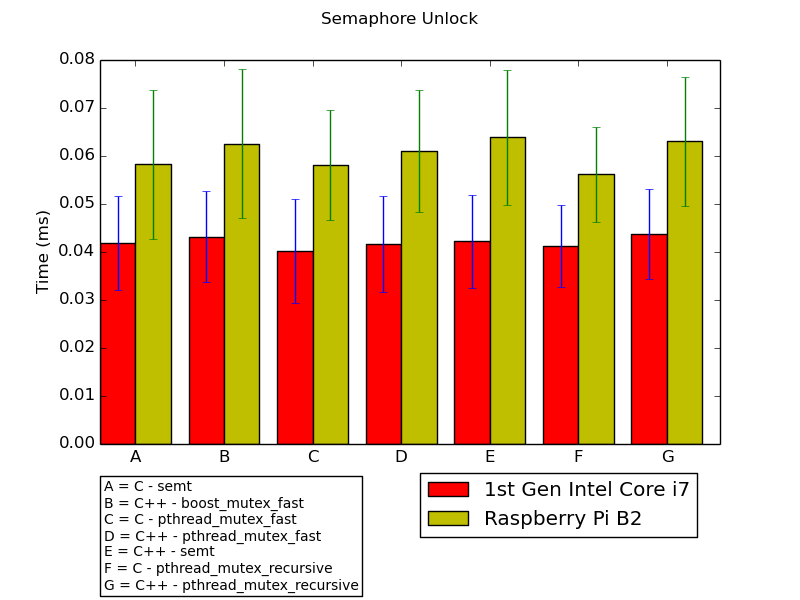
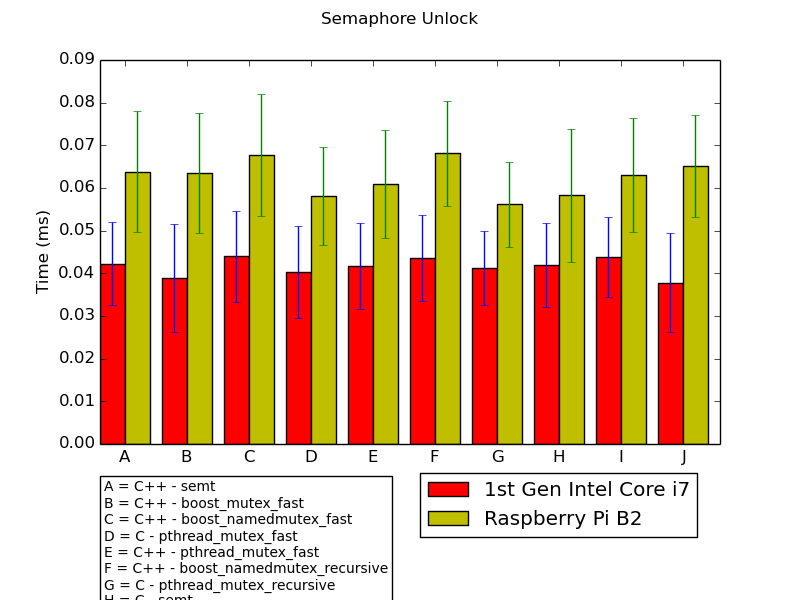
Updated final results

diff --git a/docs/index.html b/docs/index.html
@@ -190,23 +190,33 @@
 					</tr>
 					
 					<tr>
-						<td>C</td>
+						<td>C++</td>
 						<td>semt</td>
 						<td align="center">0.042</td>
 						<td align="center">0.010</td>
-						<td align="center">0.136</td>
-						<td align="center">0.016</td>
-						<td><a href="docs/img/sem_unlock__Intel_Core_i7_CPU_920_2.67GHz__C__semt.png">Result Graph</a></td>
+						<td align="center">0.111</td>
+						<td align="center">0.017</td>
+						<td><a href="docs/img/sem_unlock__Intel_Core_i7_CPU_920_2.67GHz__CPP__semt.png">Result Graph</a></td>
 					</tr>
 					
 					<tr>
 						<td>C++</td>
 						<td>boost_mutex_fast</td>
-						<td align="center">0.043</td>
-						<td align="center">0.010</td>
-						<td align="center">0.098</td>
+						<td align="center">0.039</td>
+						<td align="center">0.013</td>
+						<td align="center">0.315</td>
 						<td align="center">0.017</td>
 						<td><a href="docs/img/sem_unlock__Intel_Core_i7_CPU_920_2.67GHz__CPP__boost_mutex_fast.png">Result Graph</a></td>
+					</tr>
+					
+					<tr>
+						<td>C++</td>
+						<td>boost_namedmutex_fast</td>
+						<td align="center">0.044</td>
+						<td align="center">0.011</td>
+						<td align="center">0.293</td>
+						<td align="center">0.017</td>
+						<td><a href="docs/img/sem_unlock__Intel_Core_i7_CPU_920_2.67GHz__CPP__boost_namedmutex_fast.png">Result Graph</a></td>
 					</tr>
 					
 					<tr>
@@ -231,12 +241,12 @@
 					
 					<tr>
 						<td>C++</td>
-						<td>semt</td>
-						<td align="center">0.042</td>
+						<td>boost_namedmutex_recursive</td>
+						<td align="center">0.044</td>
 						<td align="center">0.010</td>
-						<td align="center">0.111</td>
-						<td align="center">0.017</td>
-						<td><a href="docs/img/sem_unlock__Intel_Core_i7_CPU_920_2.67GHz__CPP__semt.png">Result Graph</a></td>
+						<td align="center">0.113</td>
+						<td align="center">0.018</td>
+						<td><a href="docs/img/sem_unlock__Intel_Core_i7_CPU_920_2.67GHz__CPP__boost_namedmutex_recursive.png">Result Graph</a></td>
 					</tr>
 					
 					<tr>
@@ -250,6 +260,16 @@
 					</tr>
 					
 					<tr>
+						<td>C</td>
+						<td>semt</td>
+						<td align="center">0.042</td>
+						<td align="center">0.010</td>
+						<td align="center">0.136</td>
+						<td align="center">0.016</td>
+						<td><a href="docs/img/sem_unlock__Intel_Core_i7_CPU_920_2.67GHz__C__semt.png">Result Graph</a></td>
+					</tr>
+					
+					<tr>
 						<td>C++</td>
 						<td>pthread_mutex_recursive</td>
 						<td align="center">0.044</td>
@@ -257,6 +277,16 @@
 						<td align="center">0.182</td>
 						<td align="center">0.018</td>
 						<td><a href="docs/img/sem_unlock__Intel_Core_i7_CPU_920_2.67GHz__CPP__pthread_mutex_recursive.png">Result Graph</a></td>
+					</tr>
+					
+					<tr>
+						<td>C++</td>
+						<td>boost_mutex_recursive</td>
+						<td align="center">0.038</td>
+						<td align="center">0.012</td>
+						<td align="center">0.157</td>
+						<td align="center">0.017</td>
+						<td><a href="docs/img/sem_unlock__Intel_Core_i7_CPU_920_2.67GHz__CPP__boost_mutex_recursive.png">Result Graph</a></td>
 					</tr>
 					
 				</table>
@@ -274,23 +304,33 @@
 					</tr>
 					
 					<tr>
-						<td>C</td>
+						<td>C++</td>
 						<td>semt</td>
-						<td align="center">0.058</td>
-						<td align="center">0.016</td>
-						<td align="center">0.709</td>
-						<td align="center">0.049</td>
-						<td><a href="docs/img/sem_unlock__ARMv6-compatible_processor_rev_7_v6l__C__semt.png">Result Graph</a></td>
+						<td align="center">0.064</td>
+						<td align="center">0.014</td>
+						<td align="center">0.517</td>
+						<td align="center">0.054</td>
+						<td><a href="docs/img/sem_unlock__ARMv6-compatible_processor_rev_7_v6l__CPP__semt.png">Result Graph</a></td>
 					</tr>
 					
 					<tr>
 						<td>C++</td>
 						<td>boost_mutex_fast</td>
-						<td align="center">0.063</td>
-						<td align="center">0.016</td>
-						<td align="center">0.524</td>
-						<td align="center">0.053</td>
+						<td align="center">0.064</td>
+						<td align="center">0.014</td>
+						<td align="center">0.729</td>
+						<td align="center">0.055</td>
 						<td><a href="docs/img/sem_unlock__ARMv6-compatible_processor_rev_7_v6l__CPP__boost_mutex_fast.png">Result Graph</a></td>
+					</tr>
+					
+					<tr>
+						<td>C++</td>
+						<td>boost_namedmutex_fast</td>
+						<td align="center">0.068</td>
+						<td align="center">0.014</td>
+						<td align="center">0.638</td>
+						<td align="center">0.058</td>
+						<td><a href="docs/img/sem_unlock__ARMv6-compatible_processor_rev_7_v6l__CPP__boost_namedmutex_fast.png">Result Graph</a></td>
 					</tr>
 					
 					<tr>
@@ -315,12 +355,12 @@
 					
 					<tr>
 						<td>C++</td>
-						<td>semt</td>
-						<td align="center">0.064</td>
-						<td align="center">0.014</td>
-						<td align="center">0.517</td>
-						<td align="center">0.054</td>
-						<td><a href="docs/img/sem_unlock__ARMv6-compatible_processor_rev_7_v6l__CPP__semt.png">Result Graph</a></td>
+						<td>boost_namedmutex_recursive</td>
+						<td align="center">0.068</td>
+						<td align="center">0.012</td>
+						<td align="center">0.326</td>
+						<td align="center">0.058</td>
+						<td><a href="docs/img/sem_unlock__ARMv6-compatible_processor_rev_7_v6l__CPP__boost_namedmutex_recursive.png">Result Graph</a></td>
 					</tr>
 					
 					<tr>
@@ -334,6 +374,16 @@
 					</tr>
 					
 					<tr>
+						<td>C</td>
+						<td>semt</td>
+						<td align="center">0.058</td>
+						<td align="center">0.016</td>
+						<td align="center">0.709</td>
+						<td align="center">0.049</td>
+						<td><a href="docs/img/sem_unlock__ARMv6-compatible_processor_rev_7_v6l__C__semt.png">Result Graph</a></td>
+					</tr>
+					
+					<tr>
 						<td>C++</td>
 						<td>pthread_mutex_recursive</td>
 						<td align="center">0.063</td>
@@ -341,6 +391,16 @@
 						<td align="center">0.529</td>
 						<td align="center">0.054</td>
 						<td><a href="docs/img/sem_unlock__ARMv6-compatible_processor_rev_7_v6l__CPP__pthread_mutex_recursive.png">Result Graph</a></td>
+					</tr>
+					
+					<tr>
+						<td>C++</td>
+						<td>boost_mutex_recursive</td>
+						<td align="center">0.065</td>
+						<td align="center">0.012</td>
+						<td align="center">0.525</td>
+						<td align="center">0.055</td>
+						<td><a href="docs/img/sem_unlock__ARMv6-compatible_processor_rev_7_v6l__CPP__boost_mutex_recursive.png">Result Graph</a></td>
 					</tr>
 					
 				</table>
